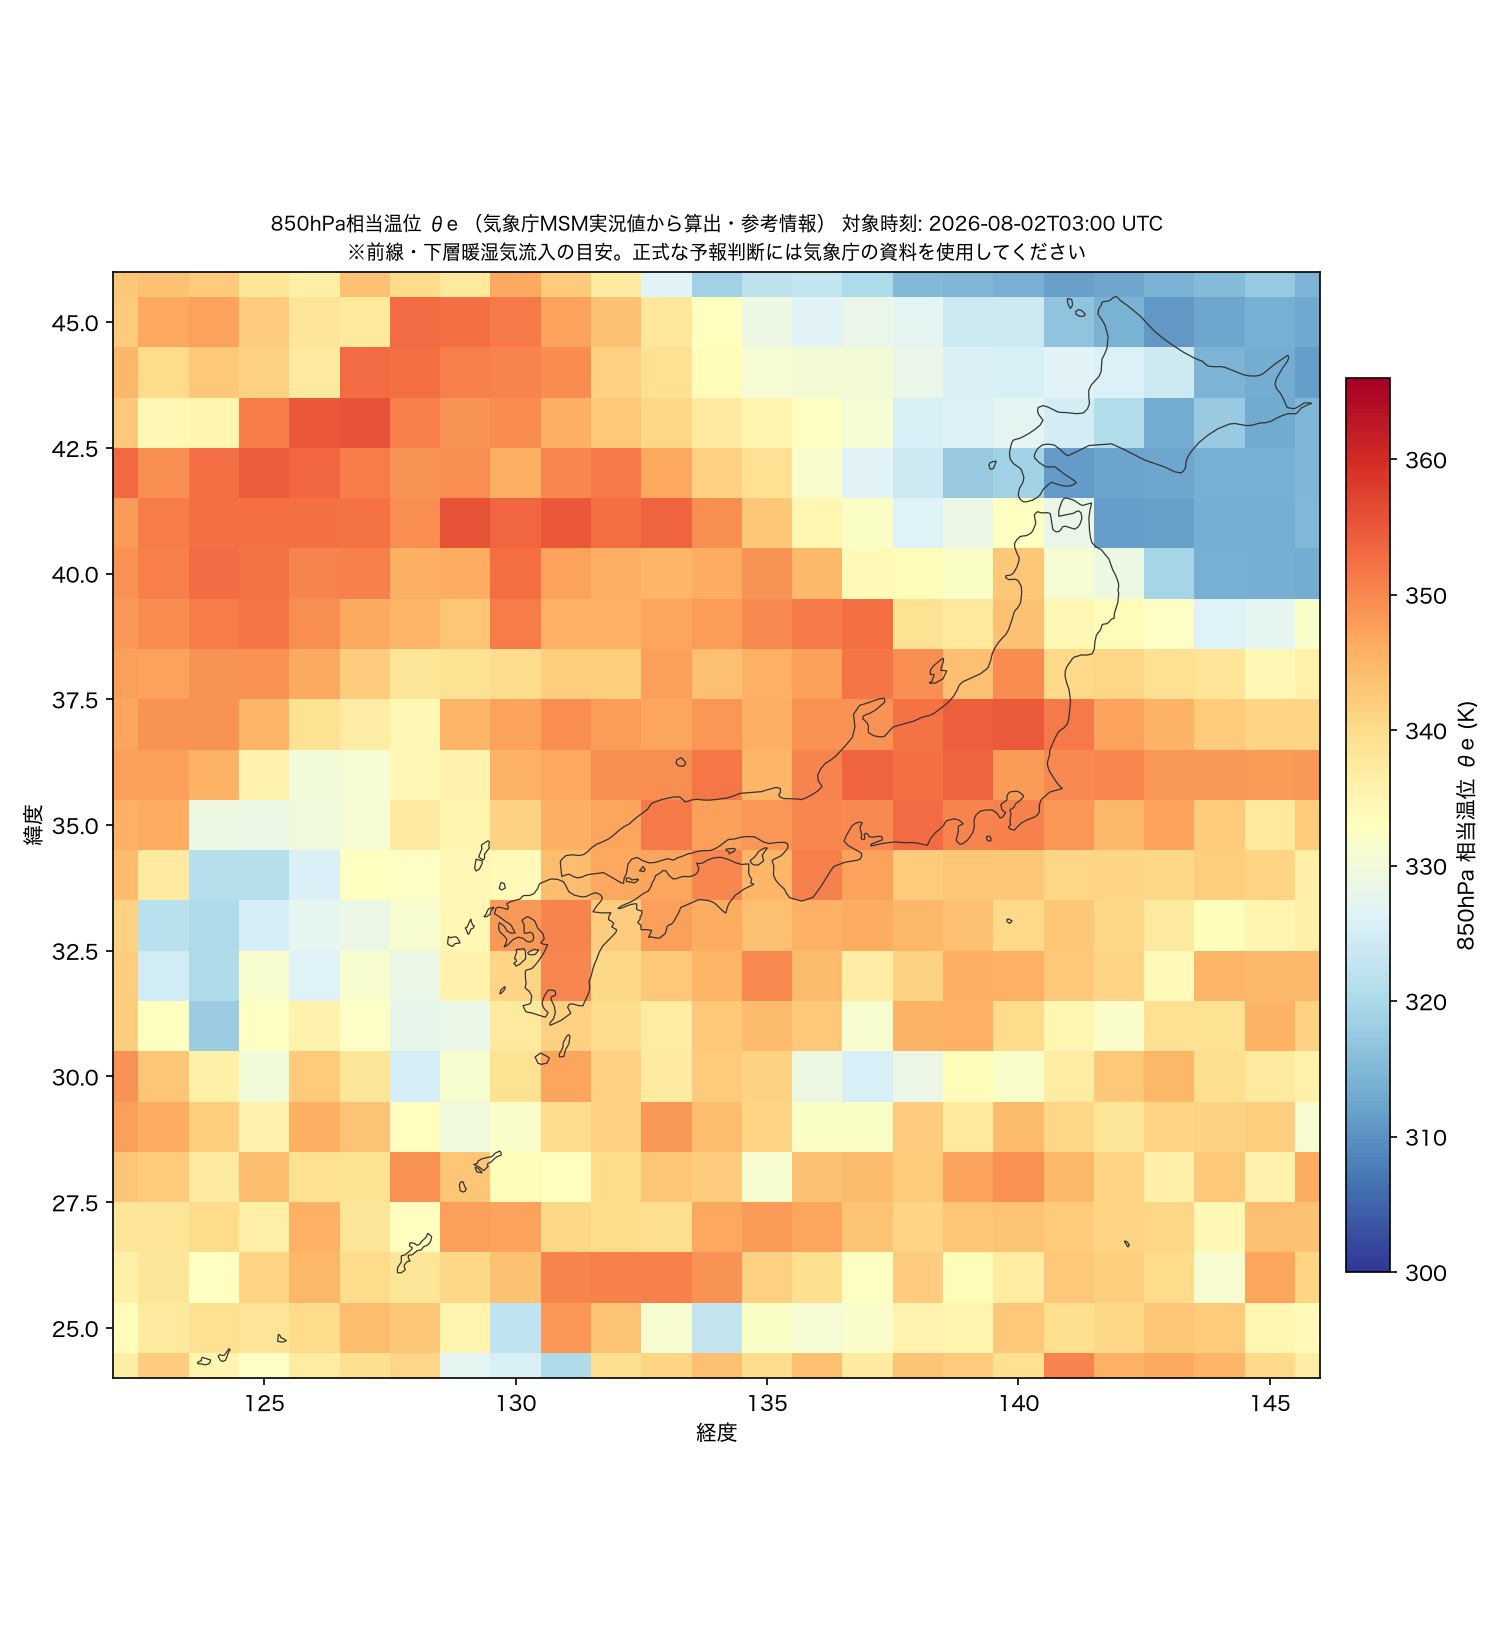
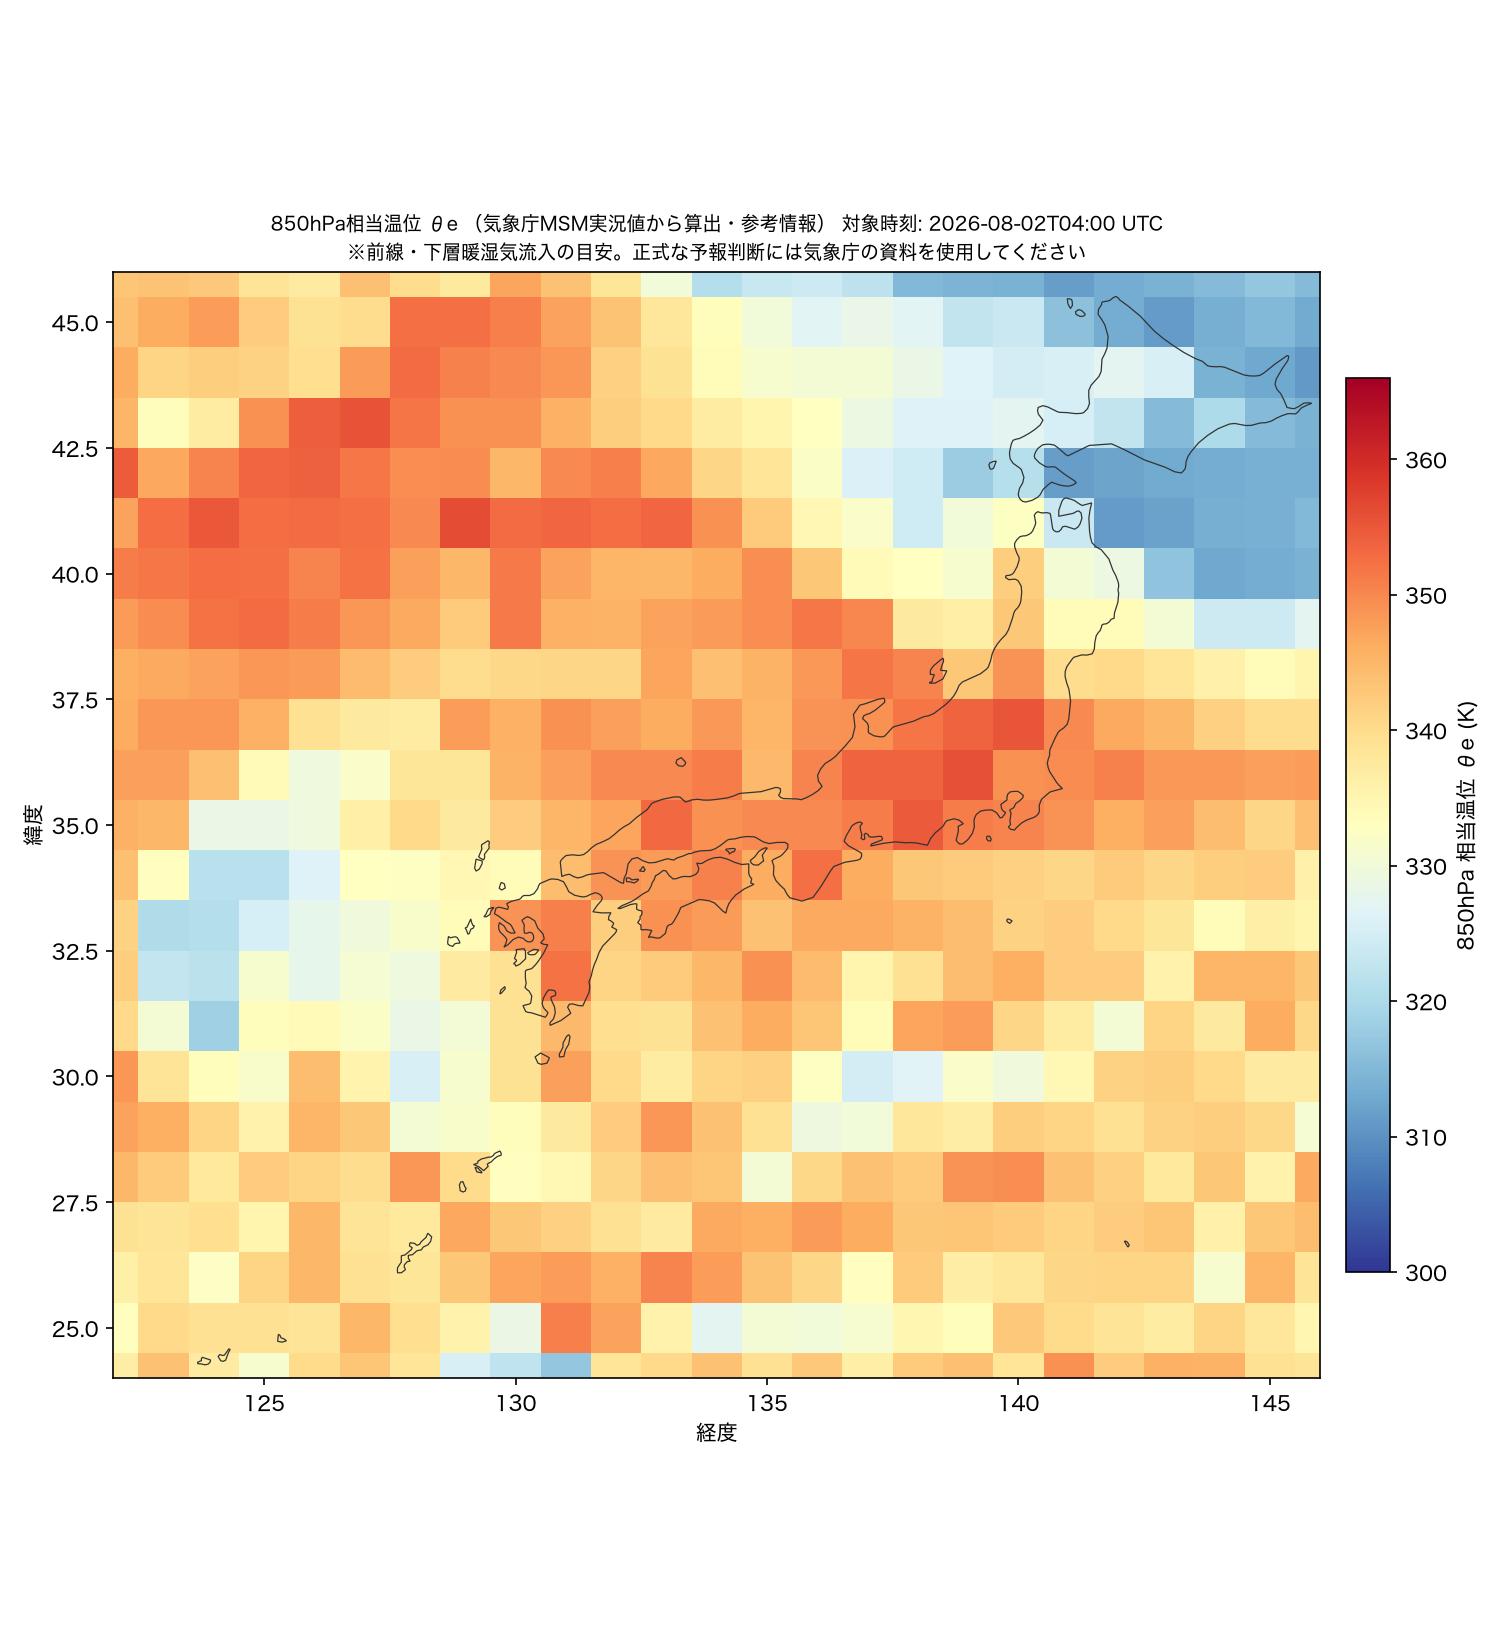
Update VMC map

diff --git a/index.html b/index.html
@@ -3,7 +3,7 @@
 <head>
 <meta charset="utf-8">
 <meta name="viewport" content="width=device-width, initial-scale=1">
-<title>VFR VMC 維持可否マップ (対象時刻: 2026-08-02T03:00 UTC)</title>
+<title>VFR VMC 維持可否マップ (対象時刻: 2026-08-02T04:00 UTC)</title>
 <style>
   :root {
     --bg: #eef1f5; --surface: #ffffff; --text: #1b2530; --text-muted: #5b6b7d;
@@ -95,7 +95,7 @@
     <h1>VFR VMC 維持可否マップ</h1>
     <p class="subtitle">日本全国、地形と雲底の隙間からVMC(視認気象状態)を維持できるかを判定した参考マップです。v1簡易判定につき、実運航の判断には正式な気象情報を使用してください。</p>
     <div class="chips">
-      <span class="chip">気象予報 対象時刻 <b>2026-08-02T03:00 UTC</b></span>
+      <span class="chip">気象予報 対象時刻 <b>2026-08-02T04:00 UTC</b></span>
       <span class="chip">下層悪天予想図 有効時刻 <b>0300 UTC 02 Aug 2026</b></span>
     </div>
   </header>
